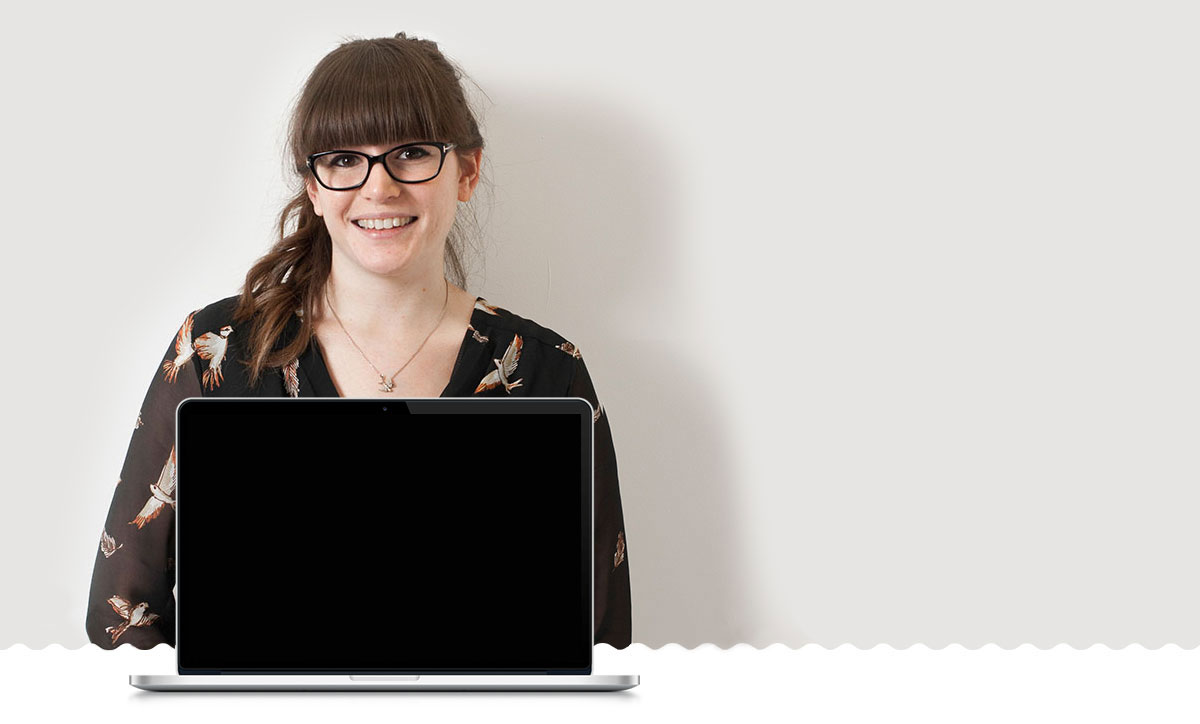
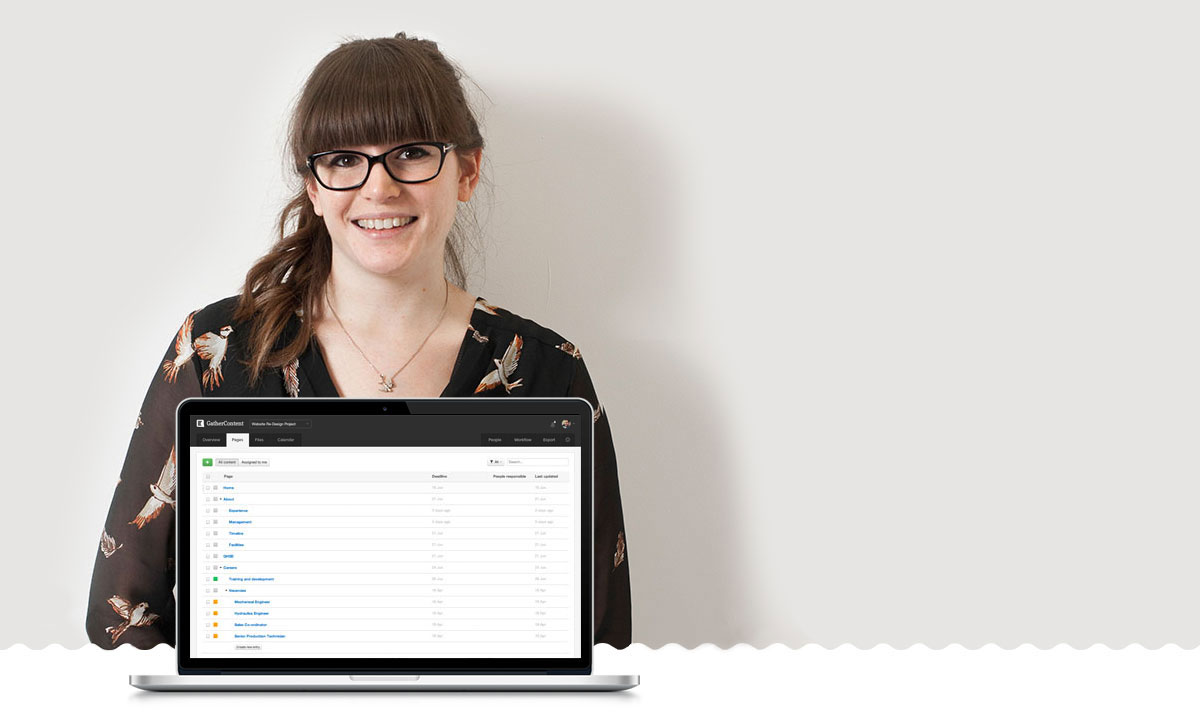
Homepage slider (for 3)

Changed region(s): [[0.1542, 0.547, 0.4933, 0.9116]]

diff --git a/app/assets/stylesheets/_prefab/frame/general/mobile/lists.css.scss b/app/assets/stylesheets/_prefab/frame/general/mobile/lists.css.scss
@@ -1,5 +1,18 @@
 // Lists
-
+@-webkit-keyframes fade {
+    0% {opacity: 0;}
+    20% {opacity: 1;}
+    33% {opacity: 1;}
+    53% {opacity: 0;}
+    100% {opacity: 0;}
+}
+@keyframes fade {
+    0% {opacity: 0;}
+    20% {opacity: 1;}
+    33% {opacity: 1;}
+    53% {opacity: 0;}
+    100% {opacity: 0;}
+}
 ul {
   // TECHDEBT
   padding-left: 20px;
@@ -17,6 +30,29 @@ ul {
         background-image: asset_url($fr_check_icon);
         @include icon($fr_icon_size,$fr_icon_padding_left);
         background-position: 0 10px;
+      }
+    }
+  }
+  &.slider {
+    position: relative;
+    @include clean_list($fr_li_padding 0);
+    li {
+      position: absolute;
+      top: 0;
+      left: 0;
+      &:not(.overlay) {
+        -webkit-animation-name: fade;
+        -webkit-animation-iteration-count: infinite;
+        -webkit-animation-duration: 6s;
+        animation-name: fade;
+        animation-iteration-count: infinite;
+        animation-duration: 6s;
+      }
+      &:nth-child(2) {
+        -webkit-animation-delay: -4s;
+      }
+      &:nth-child(3) {
+        -webkit-animation-delay: -2s;
       }
     }
   }

diff --git a/app/assets/stylesheets/_prefab/skin/general/desktop/grid.css.scss b/app/assets/stylesheets/_prefab/skin/general/desktop/grid.css.scss
@@ -33,6 +33,51 @@ body:not(.unfixed) {
   }
 }
 
+.homepage {
+  .screenshot {
+    z-index: 9999999;
+    display: block;
+    position: absolute;
+    top: 485px;
+    left: 35px;
+    width: 392px;
+    height: 245px;
+    border: none;
+    ul.slider {
+      li {
+        &.button_holder {
+          position: absolute;
+          top: 0;
+          text-align: center;
+          width: 100%;
+          padding-top: 100px;
+          height: 140px;
+          background: rgba(0,0,0,0.4);
+          display: block;
+          opacity: 0;
+          @include animate_on_opacity(0.3s);
+        }
+      }
+    }
+    &:hover {
+      ul.slider {
+        li {
+          &.button_holder {
+            opacity: 1;
+          }
+        }
+      }
+    }
+
+    img {
+      border-top: 1px solid rgba(0,0,0,0.5);
+      @include rounded_corners(2px);
+      width: 392px;
+      height: 245px;
+    }
+  }
+}
+
 @media only screen
 and (min-width : 1050px) {
   .stripe {

diff --git a/public/marketing_site/index.html b/public/marketing_site/index.html
@@ -35,6 +35,19 @@
         </div>
     </div>
 
+    <div class="stripe">
+        <div class="fixed wrapper">
+            <div class="screenshot">
+                <ul class="autostart slider">
+                    <li><img src="content/homepage/screenshot_1.png"></li>
+                    <li><img src="content/homepage/screenshot_2.png"></li>
+                    <li><img src="content/homepage/screenshot_3.png"></li>
+                    <li class="overlay button_holder"><a href="#" class="strong info button">How It Works</a></li>
+                </ul>
+            </div>
+        </div>
+    </div>
+
     <div class="hero stripe">
         <div class="wrapper">
             <div class="grid">

diff --git a/app/assets/stylesheets/_prefab/skin/general/mobile/grid.css.scss b/app/assets/stylesheets/_prefab/skin/general/mobile/grid.css.scss
@@ -131,6 +131,10 @@ body {
   }
 }
 
+.screenshot {
+  display: none;
+}
+
 .floater {
   position: absolute;
   top: 0;
@@ -152,6 +156,8 @@ body {
     display: none;
   }
 }
+
+
 
 #codeigniter_profiler {
   display: none;
